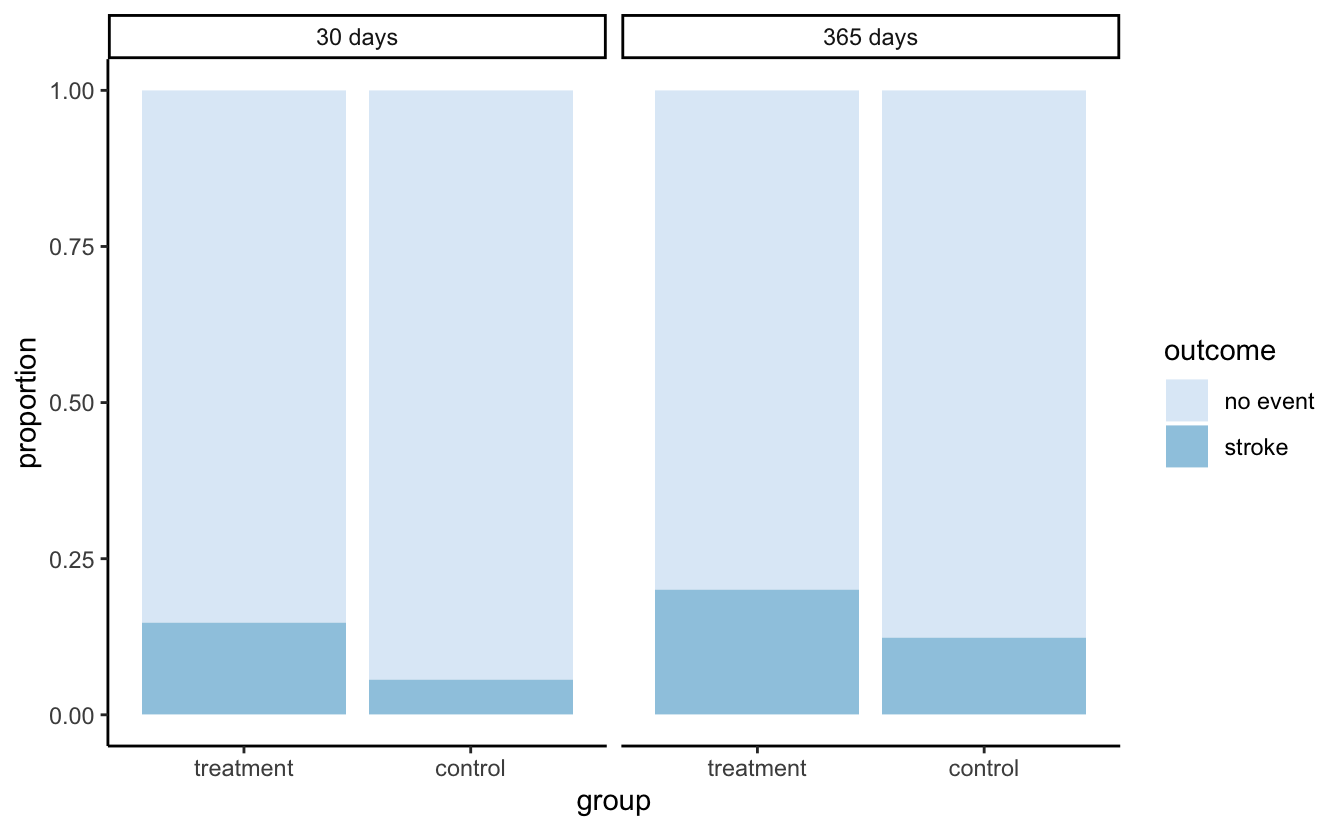
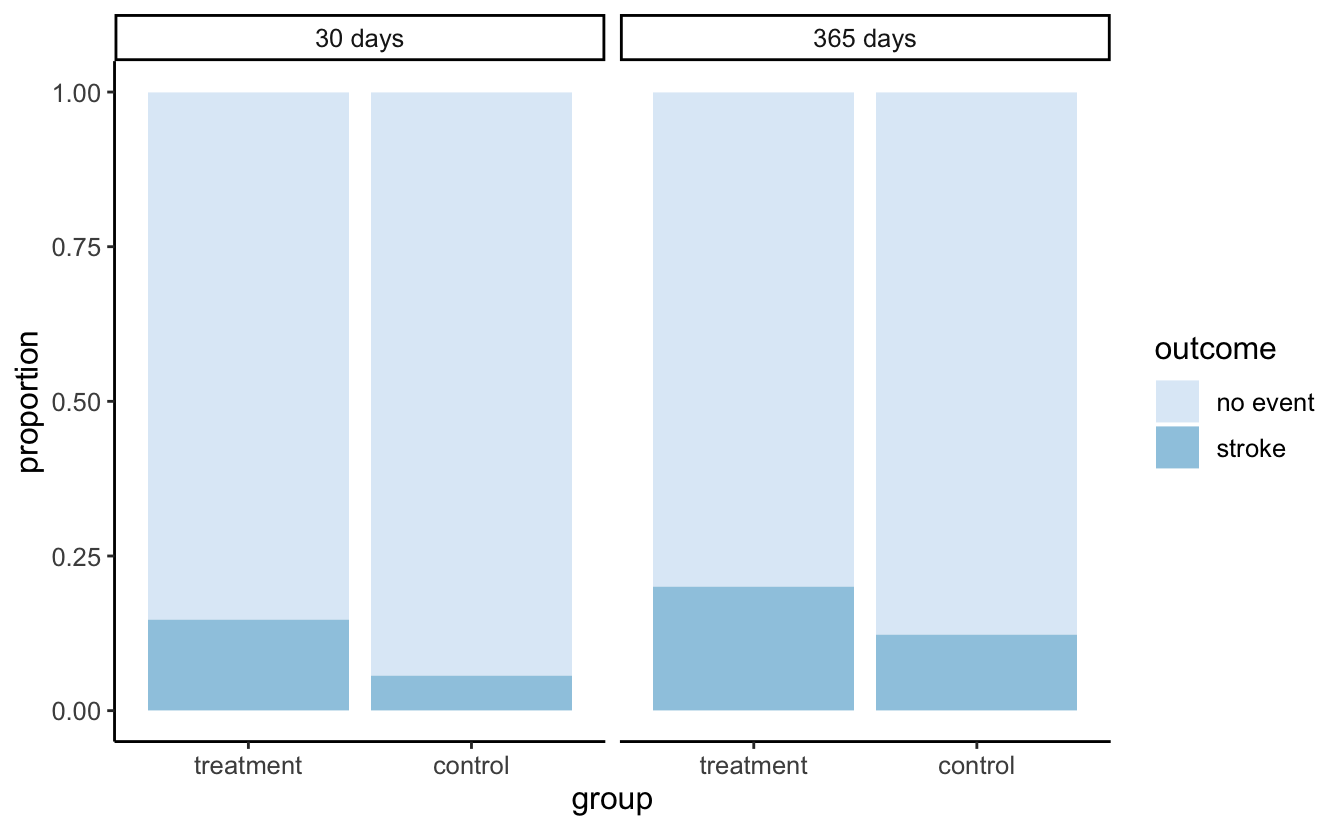
Add figure caption and index entry for barplot

Changed region(s): [[0.0, 0.0301, 0.8438, 0.9337], [0.8438, 0.3916, 0.9688, 0.5723], [0.4062, 0.9337, 0.5, 0.994]]

diff --git a/docs/intro-to-data.html b/docs/intro-to-data.html
@@ -416,8 +416,13 @@ Total
 </tr>
 </tbody>
 </table>
-<p>The data summarized in this table can also be visualized with a <strong>barplot</strong>:</p>
-<p><img src="01-intro-to-data_files/figure-html/stentStudyResultsDFbarplot-1.png" width="70%" style="display: block; margin: auto;" /></p>
+<p>The data summarized in this table can also be visualized with a <strong>barplot</strong>, seen in Figure <a href="intro-to-data.html#fig:stentStudyResultsDFbarplot">1.1</a>:</p>
+<div class="figure" style="text-align: center"><span id="fig:stentStudyResultsDFbarplot"></span>
+<img src="01-intro-to-data_files/figure-html/stentStudyResultsDFbarplot-1.png" alt="Segmented barplot of outcomes in stent study by group and time." width="70%" />
+<p class="caption">
+Figure 1.1: Segmented barplot of outcomes in stent study by group and time.
+</p>
+</div>
 
 <div class="guidedpractice">
 Of the 224 patients in the treatment group, 45 had a stroke by the end of the first year.
@@ -1070,7 +1075,7 @@ To simplify analyses, any ordinal variable in this book will be treated as a nom
 <div class="figure" style="text-align: center"><span id="fig:variables"></span>
 <img src="01/figures/variables/variables.png" alt="Breakdown of variables into their respective types." width="75%" />
 <p class="caption">
-Figure 1.1: Breakdown of variables into their respective types.
+Figure 1.2: Breakdown of variables into their respective types.
 </p>
 </div>
 
@@ -1111,7 +1116,7 @@ A social scientist may like to answer some of the following questions:</p>
 Examining <strong>summary statistics</strong> could provide insights for each of the three questions about counties.
 Additionally, graphs can be used to visually exploring the data.</p>
 <p><strong>Scatterplots</strong> are one type of graph used to study the relationship between two numerical variables.
-Figure <a href="intro-to-data.html#fig:county-multi-unit-homeownership">1.2</a> displays the relationship between the variables <code>homeownership</code> and <code>multi_unit</code>, which is the percent of units in multi-unit structures (e.g. apartments, condos).
+Figure <a href="intro-to-data.html#fig:county-multi-unit-homeownership">1.3</a> displays the relationship between the variables <code>homeownership</code> and <code>multi_unit</code>, which is the percent of units in multi-unit structures (e.g. apartments, condos).
 Each point on the plot represents a single county.
 For instance, the highlighted dot corresponds to County 413 in the <code>county</code> data set: Chattahoochee County, Georgia, which has 39.4% of units in multi-unit structures and a homeownership rate of 31.3%.
 The scatterplot suggests a relationship between the two variables: counties with a higher rate of multi-units tend to have lower homeownership rates.
@@ -1119,7 +1124,7 @@ We might brainstorm as to why this relationship exists and investigate each idea
 <div class="figure" style="text-align: center"><span id="fig:county-multi-unit-homeownership"></span>
 <img src="01-intro-to-data_files/figure-html/county-multi-unit-homeownership-1.png" alt="A scatterplot of homeownership versus the percent of units that are in multi-unit structures for US counties. The highlighted dot represents Chattahoochee County, Georgia, which has a multi-unit rate of 39.4% and a homeownership rate of 31.3%." width="70%" />
 <p class="caption">
-Figure 1.2: A scatterplot of homeownership versus the percent of units that are in multi-unit structures for US counties. The highlighted dot represents Chattahoochee County, Georgia, which has a multi-unit rate of 39.4% and a homeownership rate of 31.3%.
+Figure 1.3: A scatterplot of homeownership versus the percent of units that are in multi-unit structures for US counties. The highlighted dot represents Chattahoochee County, Georgia, which has a multi-unit rate of 39.4% and a homeownership rate of 31.3%.
 </p>
 </div>
 <p>The multi-unit and homeownership rates are said to be associated because the plot shows a discernible pattern.
@@ -1133,7 +1138,7 @@ Create two questions about possible relationships between variables in <code>loa
 
 
 <div class="example">
-<p>This example examines the relationship between the change in population from 2010 to 2017 and median household income for counties, which is visualized as a scatterplot in Figure <a href="intro-to-data.html#fig:county-pop-change-med-hh-income">1.3</a>.
+<p>This example examines the relationship between the change in population from 2010 to 2017 and median household income for counties, which is visualized as a scatterplot in Figure <a href="intro-to-data.html#fig:county-pop-change-med-hh-income">1.4</a>.
 Are these variables associated?</p>
 <hr />
 The larger the median household income for a county, the higher the population growth observed for the county.
@@ -1143,11 +1148,11 @@ While this trend isn’t true for every county, the trend in the plot is evident
 <div class="figure" style="text-align: center"><span id="fig:county-pop-change-med-hh-income"></span>
 <img src="01-intro-to-data_files/figure-html/county-pop-change-med-hh-income-1.png" alt="A scatterplot showing `pop_change` against `median_hh_income`. Owsley County of Kentucky, is highlighted, which lost 3.63% of its population from 2010 to 2017 and had median household income of $22,736." width="70%" />
 <p class="caption">
-Figure 1.3: A scatterplot showing <code>pop_change</code> against <code>median_hh_income</code>. Owsley County of Kentucky, is highlighted, which lost 3.63% of its population from 2010 to 2017 and had median household income of $22,736.
+Figure 1.4: A scatterplot showing <code>pop_change</code> against <code>median_hh_income</code>. Owsley County of Kentucky, is highlighted, which lost 3.63% of its population from 2010 to 2017 and had median household income of $22,736.
 </p>
 </div>
-<p>Because there is a downward trend in Figure <a href="intro-to-data.html#fig:county-multi-unit-homeownership">1.2</a> – counties with more units in multi-unit structures are associated with lower homeownership – these variables are said to be <strong>negatively associated</strong>.
-A <strong>positive association</strong> is shown in the relationship between the <code>median_hh_income</code> and <code>pop_change</code> variables in Figure <a href="intro-to-data.html#fig:county-pop-change-med-hh-income">1.3</a>, where counties with higher median household income tend to have higher rates of population growth.</p>
+<p>Because there is a downward trend in Figure <a href="intro-to-data.html#fig:county-multi-unit-homeownership">1.3</a> – counties with more units in multi-unit structures are associated with lower homeownership – these variables are said to be <strong>negatively associated</strong>.
+A <strong>positive association</strong> is shown in the relationship between the <code>median_hh_income</code> and <code>pop_change</code> variables in Figure <a href="intro-to-data.html#fig:county-pop-change-med-hh-income">1.4</a>, where counties with higher median household income tend to have higher rates of population growth.</p>
 <p>If two variables are not associated, then they are said to be <strong>independent</strong>.
 That is, two variables are independent if there is no evident relationship between the two.</p>
 
@@ -1255,7 +1260,7 @@ Such evidence may be true and verifiable, but it may only represent extraordinar
 <div class="figure" style="text-align: center"><span id="fig:mn-winter"></span>
 <img src="01/images/mn-winter/mn-winter.jpg" alt="In February 2010, some media pundits cited one large snow storm as evidence against global warming. As comedian Jon Stewart pointed out, &quot;It is one storm, in one region, of one country.&quot;" width="80%" />
 <p class="caption">
-Figure 1.4: In February 2010, some media pundits cited one large snow storm as evidence against global warming. As comedian Jon Stewart pointed out, “It is one storm, in one region, of one country.”
+Figure 1.5: In February 2010, some media pundits cited one large snow storm as evidence against global warming. As comedian Jon Stewart pointed out, “It is one storm, in one region, of one country.”
 </p>
 </div>
 <p>Anecdotal evidence typically is composed of unusual cases that we recall based on their striking characteristics.
@@ -1276,7 +1281,7 @@ We pick samples randomly to reduce the chance we introduce biases.</p>
 <div class="figure" style="text-align: center"><span id="fig:pop-to-sample"></span>
 <img src="01-intro-to-data_files/figure-html/pop-to-sample-1.png" alt="In this graphic, five graduates are randomly selected from the population to be included in the sample." width="70%" />
 <p class="caption">
-Figure 1.5: In this graphic, five graduates are randomly selected from the population to be included in the sample.
+Figure 1.6: In this graphic, five graduates are randomly selected from the population to be included in the sample.
 </p>
 </div>
 
@@ -1292,7 +1297,7 @@ When selecting samples by hand, we run the risk of picking a <strong>biased</str
 <div class="figure" style="text-align: center"><span id="fig:pop-to-sub-sample-graduates"></span>
 <img src="01-intro-to-data_files/figure-html/pop-to-sub-sample-graduates-1.png" alt="Asked to pick a sample of graduates, a nutrition major might inadvertently pick a disproportionate number of graduates from health-related majors." width="70%" />
 <p class="caption">
-Figure 1.6: Asked to pick a sample of graduates, a nutrition major might inadvertently pick a disproportionate number of graduates from health-related majors.
+Figure 1.7: Asked to pick a sample of graduates, a nutrition major might inadvertently pick a disproportionate number of graduates from health-related majors.
 </p>
 </div>
 <p>If someone was permitted to pick and choose exactly which graduates were included in the sample, it is entirely possible that the sample could be skewed to that person’s interests, which may be entirely unintentional.
@@ -1307,7 +1312,7 @@ This <strong>non-response bias</strong> can skew results.</p>
 <div class="figure" style="text-align: center"><span id="fig:survey-sample"></span>
 <img src="01-intro-to-data_files/figure-html/survey-sample-1.png" alt="Due to the possibility of non-response, surveys studies may only reach a certain group within the population. It is difficult, and often times impossible, to completely fix this problem." width="70%" />
 <p class="caption">
-Figure 1.7: Due to the possibility of non-response, surveys studies may only reach a certain group within the population. It is difficult, and often times impossible, to completely fix this problem.
+Figure 1.8: Due to the possibility of non-response, surveys studies may only reach a certain group within the population. It is difficult, and often times impossible, to completely fix this problem.
 </p>
 </div>
 <p>Another common downfall is a <strong>convenience sample</strong> , where individuals who are easily accessible are more likely to be included in the sample.
@@ -1350,7 +1355,7 @@ http://onlinelibrary.wiley.com/doi/10.1002/ijc.22745/full
 While one method to justify making causal conclusions from observational studies is to exhaust the search for confounding variables, there is no guarantee that all confounding variables can be examined or measured.</p>
 
 <div class="guidedpractice">
-Figure <a href="intro-to-data.html#fig:county-multi-unit-homeownership">1.2</a> shows a negative association between the homeownership rate and the percentage of multi-unit structures in a county.
+Figure <a href="intro-to-data.html#fig:county-multi-unit-homeownership">1.3</a> shows a negative association between the homeownership rate and the percentage of multi-unit structures in a county.
 However, it is unreasonable to conclude that there is a causal relationship between the two variables.
 Suggest a variable that might explain the negative relationship.<a href="#fn12" class="footnote-ref" id="fnref12"><sup>12</sup></a>
 </div>
@@ -1368,13 +1373,13 @@ Some data sets may contain both prospectively- and retrospectively-collected var
 <h3><span class="header-section-number">1.3.5</span> Four sampling methods</h3>
 <p>Almost all statistical methods are based on the notion of implied randomness.
 If observational data are not collected in a random framework from a population, these statistical methods – the estimates and errors associated with the estimates – are not reliable.
-Here we consider four random sampling techniques: simple, stratified, cluster, and multistage sampling. Figures <a href="intro-to-data.html#fig:simple-stratified">1.8</a> and <a href="intro-to-data.html#fig:cluster-multistage">1.9</a> provide graphical representations of these techniques.</p>
+Here we consider four random sampling techniques: simple, stratified, cluster, and multistage sampling. Figures <a href="intro-to-data.html#fig:simple-stratified">1.9</a> and <a href="intro-to-data.html#fig:cluster-multistage">1.10</a> provide graphical representations of these techniques.</p>
 <p>
 </p>
 <div class="figure" style="text-align: center"><span id="fig:simple-stratified"></span>
 <img src="01-intro-to-data_files/figure-html/simple-stratified-1.png" alt="Examples of simple random and stratified sampling. In the top panel, simple random sampling was used to randomly select the 18 cases (denoted in red). In the bottom panel, stratified sampling was used: cases were grouped into strata, then simple random sampling was employed to randomly select 3 cases within each stratum." width="70%" />
 <p class="caption">
-Figure 1.8: Examples of simple random and stratified sampling. In the top panel, simple random sampling was used to randomly select the 18 cases (denoted in red). In the bottom panel, stratified sampling was used: cases were grouped into strata, then simple random sampling was employed to randomly select 3 cases within each stratum.
+Figure 1.9: Examples of simple random and stratified sampling. In the top panel, simple random sampling was used to randomly select the 18 cases (denoted in red). In the bottom panel, stratified sampling was used: cases were grouped into strata, then simple random sampling was employed to randomly select 3 cases within each stratum.
 </p>
 </div>
 
@@ -1410,7 +1415,7 @@ A <strong>multistage sample</strong> is like a cluster sample, but rather than k
 <div class="figure" style="text-align: center"><span id="fig:cluster-multistage"></span>
 <img src="01-intro-to-data_files/figure-html/cluster-multistage-1.png" alt="Examples of cluster and multistage sampling. In the top panel, cluster sampling was used: data were binned into nine clusters, three of these clusters were sampled, and all observations within these three cluster were included in the sample. In the bottom panel, multistage sampling was used, which differs from cluster sampling only in that we randomly select a subset of each cluster to be included in the sample rather than measuring every case in each sampled cluster." width="70%" />
 <p class="caption">
-Figure 1.9: Examples of cluster and multistage sampling. In the top panel, cluster sampling was used: data were binned into nine clusters, three of these clusters were sampled, and all observations within these three cluster were included in the sample. In the bottom panel, multistage sampling was used, which differs from cluster sampling only in that we randomly select a subset of each cluster to be included in the sample rather than measuring every case in each sampled cluster.
+Figure 1.10: Examples of cluster and multistage sampling. In the top panel, cluster sampling was used: data were binned into nine clusters, three of these clusters were sampled, and all observations within these three cluster were included in the sample. In the bottom panel, multistage sampling was used, which differs from cluster sampling only in that we randomly select a subset of each cluster to be included in the sample rather than measuring every case in each sampled cluster.
 </p>
 </div>
 <p>Sometimes cluster or multistage sampling can be more economical than the alternative sampling techniques.
@@ -1452,13 +1457,13 @@ Alternatively, a group of scientists may replicate an entire study to verify an 
 <li><p><strong>Blocking.</strong> Researchers sometimes know or suspect that variables, other than the treatment, influence the response.
 Under these circumstances, they may first group individuals based on this variable into <strong>blocks</strong> and then randomize cases within each block to the treatment groups.
 This strategy is often referred to as <strong>blocking</strong>.
-For instance, if we are looking at the effect of a drug on heart attacks, we might first split patients in the study into low-risk and high-risk blocks, then randomly assign half the patients from each block to the control group and the other half to the treatment group, as shown in Figure <a href="intro-to-data.html#fig:blocking">1.10</a>.
+For instance, if we are looking at the effect of a drug on heart attacks, we might first split patients in the study into low-risk and high-risk blocks, then randomly assign half the patients from each block to the control group and the other half to the treatment group, as shown in Figure <a href="intro-to-data.html#fig:blocking">1.11</a>.
 This strategy ensures each treatment group has an equal number of low-risk and high-risk patients.</p></li>
 </ol>
 <div class="figure" style="text-align: center"><span id="fig:blocking"></span>
 <img src="01-intro-to-data_files/figure-html/blocking-1.png" alt="Blocking using a variable depicting patient risk. Patients are first divided into low-risk and high-risk blocks, then each block is evenly separated into the treatment groups using randomization. This strategy ensures an equal representation of patients in each treatment group from both the low-risk and high-risk categories." width="70%" />
 <p class="caption">
-Figure 1.10: Blocking using a variable depicting patient risk. Patients are first divided into low-risk and high-risk blocks, then each block is evenly separated into the treatment groups using randomization. This strategy ensures an equal representation of patients in each treatment group from both the low-risk and high-risk categories.
+Figure 1.11: Blocking using a variable depicting patient risk. Patients are first divided into low-risk and high-risk blocks, then each block is evenly separated into the treatment groups using randomization. This strategy ensures an equal representation of patients in each treatment group from both the low-risk and high-risk categories.
 </p>
 </div>
 <p>It is important to incorporate the first three experimental design principles into any study, and this book describes applicable methods for analyzing data from such experiments.

diff --git a/docs/01-intro-to-data.md b/docs/01-intro-to-data.md
@@ -128,11 +128,14 @@ To identify the number of control patients who did not have a stroke after 365 d
 </tbody>
 </table>
 
-The data summarized in this table can also be visualized with a **barplot**:
+The data summarized in this table can also be visualized with a \index{barplot}**barplot**, seen in Figure \@ref(fig:stentStudyResultsDFbarplot):
 
 
 
-<img src="01-intro-to-data_files/figure-html/stentStudyResultsDFbarplot-1.png" width="70%" style="display: block; margin: auto;" />
+<div class="figure" style="text-align: center">
+<img src="01-intro-to-data_files/figure-html/stentStudyResultsDFbarplot-1.png" alt="Segmented barplot of outcomes in stent study by group and time." width="70%" />
+<p class="caption">(\#fig:stentStudyResultsDFbarplot)Segmented barplot of outcomes in stent study by group and time.</p>
+</div>
 
 \BeginKnitrBlock{guidedpractice}<div class="guidedpractice">Of the 224 patients in the treatment group, 45 had a stroke by the end of the first year. 
 Using these two numbers, compute the proportion of patients in the treatment group who had a stroke by the end of their first year.
